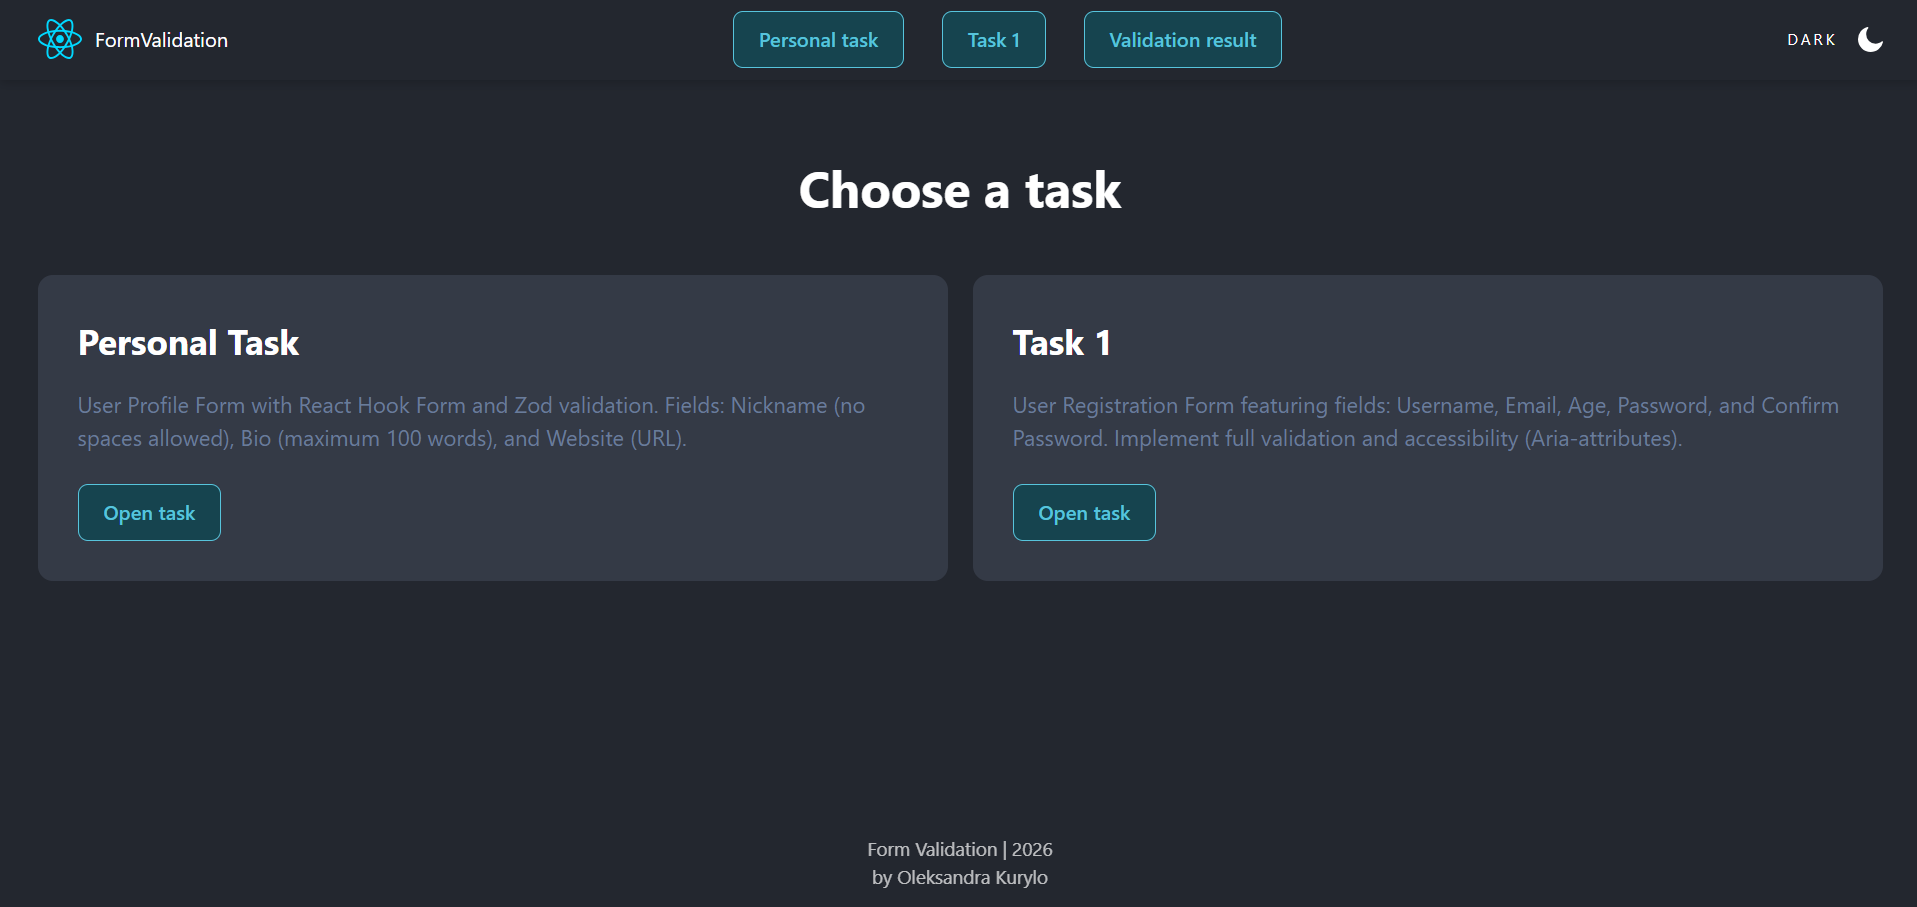
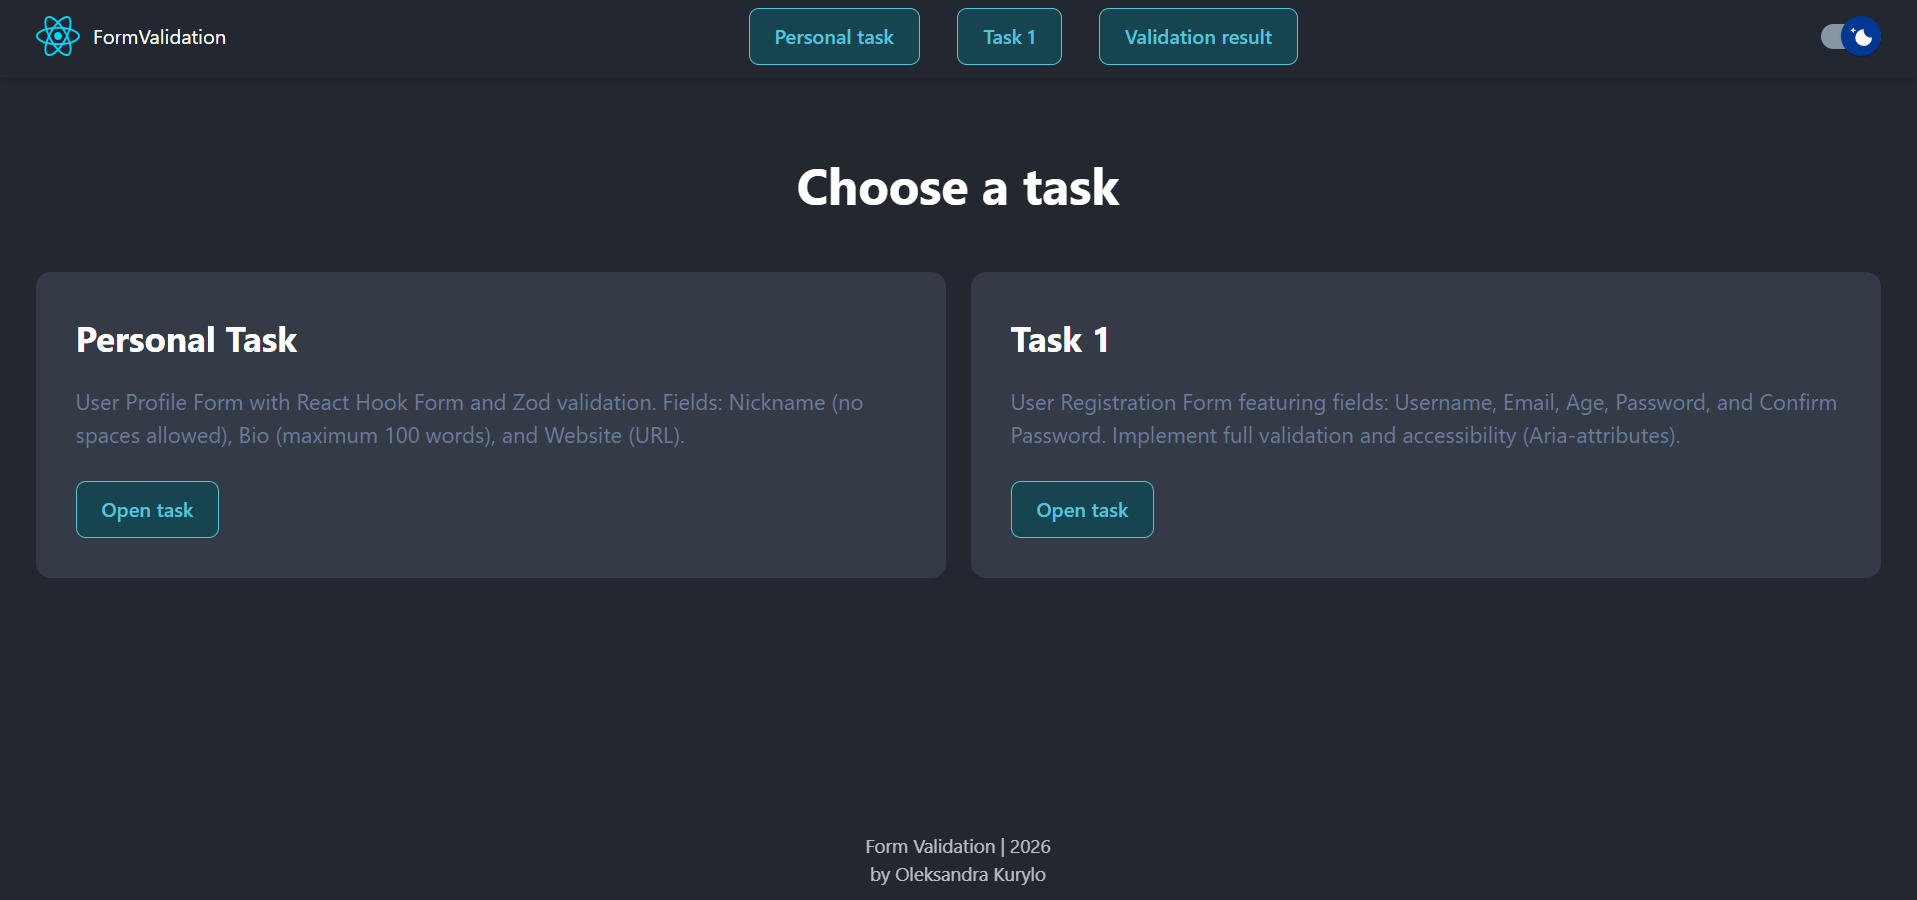
changed readme, final bug fix

diff --git a/src/components/RegisterForm/registerSchema.ts b/src/components/RegisterForm/registerSchema.ts
@@ -21,5 +21,4 @@ export const registerSchema = z
     }
   });
 
-// Важливо: переконайтеся, що тип виглядає саме так
 export type RegisterFormData = z.infer<typeof registerSchema>;

diff --git a/src/components/Loader/Loader.module.css b/src/components/Loader/Loader.module.css
@@ -77,7 +77,7 @@
 
 .mainLoader::before {
   content: 'Loading tasks';
-  color: #000000;
+  color: var(--text-color);
   font-family: Arial, Helvetica, sans-serif;
   font-size: 48px;
   letter-spacing: 2px;

diff --git a/README.md b/README.md
@@ -34,7 +34,7 @@
 
 - Backend (Mock): JSON Server (REST API simulation)
 
-- Routing: React Router v6.4 (Dynamic routing)
+- Routing: React Router v6.4+ (Dynamic routing)
 
 - Forms & Validation: React Hook Form, Zod
 
@@ -97,7 +97,7 @@ src/
 │   └── ...
 ├── components/               # Reusable UI components
 │   ├── Button/               # Generic button component
-│   ├── DataCard/             # Dashboard card (Generic CRUD component)
+│   ├── DataCard/             # Dashboard card
 │   ├── Header/               # Site navigation and theme toggle
 │   ├── Loader/               # Animated loading spinner/text
 │   ├── MainLayout/           # Shared page wrapper
@@ -107,7 +107,6 @@ src/
 │   │   ├── registerSchema.ts
 │   │   └── index.ts
 │   ├── TaskCard/             # Component for task display
-│   ├── ThemeSwitcher/        # Dark/Light mode toggle
 │   └── UserProfileForm/      # Profile management logic & schema
 │       ├── UserProfileForm.tsx
 │       ├── UserProfileForm.module.css
@@ -115,17 +114,26 @@ src/
 │       └── index.ts
 ├── constants/                # Global configuration strings
 │   └── global.constants.ts   # API_URL
+├── features/                 # Complex functional modules
+│ └── ThemeToggler/           # Theme switching logic & UI
 ├── helpers/                  # Pure utility functions
 │   └── delayFn.ts            # Custom delay for loader simulation
 ├── hooks/                    # Custom React hooks
-│   ├── useFetch.ts           # Centralized API handling (Loading/Error)
-│   └── useDelayedLoader.ts   # Hook for artificial page delays
+│   ├── useAuth.ts
+│   ├── useFetch.ts
+│   └── useTheme.ts
 ├── pages/                    # Top-level route components
 │   ├── HomePage/             # Portfolio/Intro page
 │   ├── NotFoundPage/         # 404 Error handling
 │   ├── RegisterFormPage/     # Registration route
 │   ├── UserProfileFormPage/  # Profile route
 │   └── ValidationResultPage/ # CRUD Dashboard (Database results)
+├── theme/                    # Styling configuration & provider
+│ ├── index.ts
+│ └── ThemeProvider.tsx
+├── types/                    # Global TypeScript definitions
+│ ├── global.enums.ts
+│ └── global.types.ts
 ├── App.tsx                   # Routing
 ├── index.css                 # Global resets & variable definitions
 └── main.tsx                  # Application entry point
